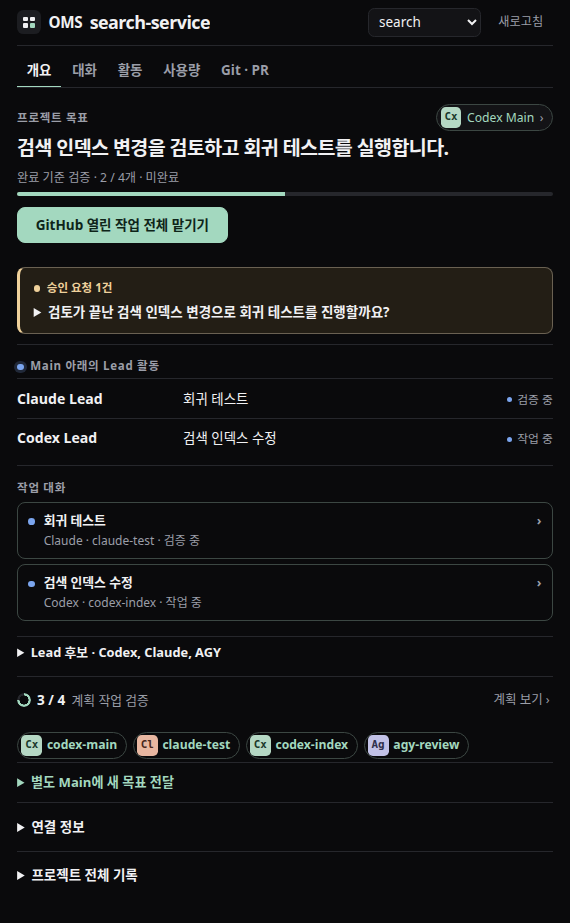
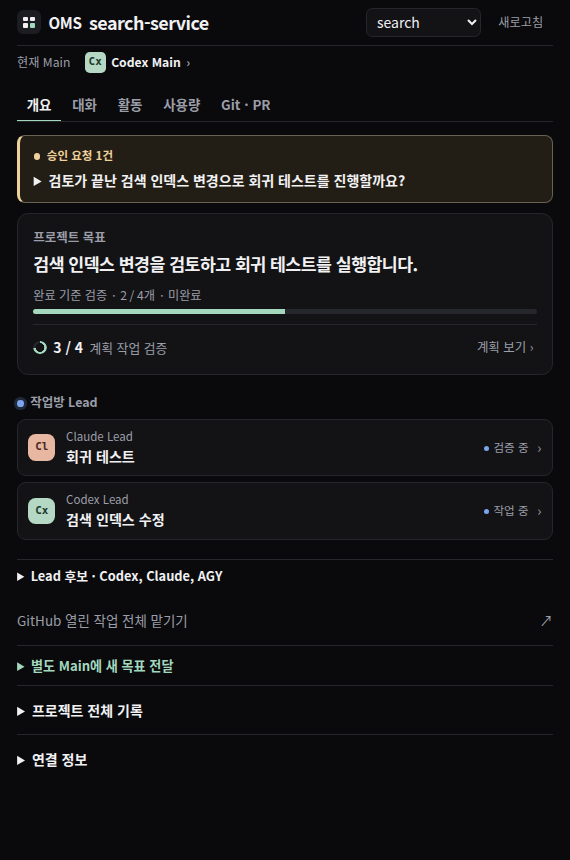
feat: prioritize approvals and active work in the OMS panel

diff --git a/crates/oms-mcp-server/src/conversation-panel.html b/crates/oms-mcp-server/src/conversation-panel.html
@@ -20,7 +20,7 @@
   }
 }
 * { box-sizing: border-box; }
-body { margin: 0; color: var(--ink); background: var(--bg); font: 13.5px/1.5 Inter, system-ui, "Noto Sans CJK KR", "Malgun Gothic", sans-serif; overflow-wrap: anywhere; -webkit-font-smoothing: antialiased; }
+body { margin: 0; color: var(--ink); background: var(--bg); font: 14px/1.5 -apple-system, BlinkMacSystemFont, "Segoe UI", "Malgun Gothic", "Noto Sans CJK KR", system-ui, sans-serif; overflow-wrap: anywhere; -webkit-font-smoothing: antialiased; }
 main { max-width: 42rem; margin: auto; padding: 0 clamp(.75rem, 3vw, 1.1rem) 1.5rem; }
 h1, h2, h3, h4, p, ul, dl, dd, fieldset, legend { margin: 0; padding: 0; }
 h1 { font-size: .95rem; letter-spacing: -.02em; font-weight: 750; }
@@ -58,7 +58,6 @@ fieldset legend { margin-bottom: .45rem; color: var(--muted); font-size: .8rem; 
 #brief:focus { border-color: var(--brand); outline: none; box-shadow: 0 0 0 3px color-mix(in srgb, var(--brand) 22%, transparent); }
 .primary { background: var(--brand); color: var(--on-brand); border-color: var(--brand); font-weight: 650; min-height: 2.3rem; padding-inline: 1.1rem; }
 #start { width: 100%; }
-.lead p + p { margin-top: .25rem; }
 .evidence, .history { margin-top: .7rem; }
 .history summary { cursor: pointer; font-weight: 600; }
 .metrics { display: grid; grid-template-columns: repeat(3, minmax(0,1fr)); gap: .5rem; margin: .65rem 0; }
@@ -75,8 +74,6 @@ ul { list-style: none; }
 .tabs button[aria-selected="false"]:hover { background: var(--tint); border-color: transparent; }
 .meta-row { display: grid; grid-template-columns: minmax(0,1fr) auto; gap: .6rem; align-items: start; }
 .link-action { background: transparent; color: var(--brand); border-color: var(--main-line); font-size: .8rem; font-weight: 650; }
-.lead .link-action { margin-top: .35rem; }
-.lead h4 button { padding: 0; min-height: 1.6rem; border: none; background: transparent; text-align: left; }
 #current-main label { cursor: pointer; }
 .usage-window { display: grid; grid-template-columns: minmax(0,1fr) minmax(3rem,7rem); gap: .4rem; align-items: center; }
 meter { width: 100%; accent-color: var(--brand); }
@@ -170,11 +167,6 @@ header { position: sticky; top: 0; z-index: 2; background: var(--bg); border-bot
 .leads-region h2 { font-size: .72rem; letter-spacing: .06em; color: var(--muted); font-weight: 650; }
 .leads { display: grid; grid-template-columns: 1fr; gap: 0; margin-top: .2rem; }
 .leads > p { padding-top: .4rem; }
-.lead { margin-top: .4rem; padding: .45rem 0 0; }
-.lead h4 { display: flex; align-items: center; gap: .4rem; margin: 0 0 .17rem; font-size: .88rem; }
-.lead h4 small { margin-left: auto; font: .72rem/1.4 var(--mono); }
-.lead h4 .link-action { min-height: 1.5rem; margin: 0; color: var(--ink); font-size: .88rem; }
-.lead p { color: var(--muted); font-size: .78rem; }
 .plan-strip { display: flex; flex-wrap: wrap; gap: .4rem; align-items: center; padding-block: .5rem; }
 .plan-strip strong { font-variant-numeric: tabular-nums; }
 #plan-marker { width: .85rem; height: .85rem; border-radius: 100%; background: conic-gradient(var(--brand) var(--verified),var(--line) 0); mask-image: radial-gradient(circle,transparent 44%,black 48%); }
@@ -189,13 +181,6 @@ header { position: sticky; top: 0; z-index: 2; background: var(--bg); border-bot
 .work-threads button strong, .work-threads button small { display: block; }
 .work-threads button small { margin-top: .1rem; color: var(--muted); font-size: .75rem; font-weight: 500; }
 .work-threads button > span:last-child { color: var(--muted); }
-.team-main { display: flex; gap: .65rem; align-items: center; }
-.team-main .avatar { width: 2.4rem; height: 2.4rem; font-size: .88rem; border-radius: .55rem; }
-.main-card { background: var(--surface); border: 1px solid var(--line); border-left: 3px solid var(--brand); border-radius: var(--r); padding: .8rem .9rem; margin-top: 0; }
-.team-chips { display: flex; flex-wrap: wrap; margin: .5rem 0 .2rem; gap: .35rem; }
-.team-chips button { display: inline-flex; gap: .3rem; align-items: center; font-size: .76rem; font-weight: 550; min-height: 1.7rem; border-radius: 999px; padding: .12rem .55rem .12rem .2rem; max-width: 100%; }
-#header-main { color: var(--brand); font-size: .68rem; min-height: 1.35rem; padding: 0 .45rem; border-radius: 999px; border-color: var(--main-line); }
-#header-main::before { content: ''; display: inline-block; width: .3rem; height: .3rem; background: currentColor; border-radius: 50%; margin: 0 .28rem .1rem 0; }
 #pane-chat, #pane-activity, #pane-usage, #pane-git { border-top: 0; }
 @media (max-width: 28rem) {
   main { padding-inline: .65rem; }
@@ -205,7 +190,6 @@ header { position: sticky; top: 0; z-index: 2; background: var(--bg); border-bot
   #goal { font-size: 1.1rem; }
   #scope { float: none; margin-left: 0; }
   .project-meta { width: 100%; }
-  .team-main .avatar { width: 2rem; height: 2rem; }
   .meta-row .link-action { max-width: 6.5rem; }
   .main-card { padding: .65rem .7rem; }
 }
@@ -220,19 +204,31 @@ header { position: sticky; top: 0; z-index: 2; background: var(--bg); border-bot
 #git-catalog details { border-bottom: 1px solid var(--line); padding-bottom: .4rem; }
 #git-catalog button,#git-content .draft-action { margin-top: .35rem; }
 #goal-card { border-top: 0; }
-.goal-actions { margin-top: .65rem; }
 header { display: flex; flex-wrap: nowrap; gap: .45rem; }
 header .wordmark { display: flex; align-items: center; gap: .46rem; min-width: 0; margin-right: auto; }
 #project { overflow: hidden; text-overflow: ellipsis; white-space: nowrap; }
 #scope { margin: 0; flex: 0 1 auto; }#project-choice { max-width: min(9rem,24vw); }#refresh { flex-shrink: 0; }
 .sr-only { position: absolute; width: 1px; height: 1px; padding: 0; overflow: hidden; clip-path: inset(50%); }
-.goal-head { display: flex; align-items: center; justify-content: space-between; gap: .5rem; }
-#header-main { display: inline-flex; align-items: center; gap: .35rem; min-height: 1.7rem; padding: .12rem .52rem .12rem .2rem; font-size: .76rem; }
-#header-main::before { display: none; }#header-main::after { content: '›'; color: var(--muted); }
-#current-main { margin: 0; font-size: .8rem; }
-.lead { display: grid; grid-template-columns: minmax(5.6rem,.8fr) minmax(0,1.6fr) minmax(2.65rem,auto); gap: .5rem; align-items: baseline; padding: .46rem 0; margin: 0; }
-.lead h4,.lead p { margin: 0; }.lead p { color: var(--ink); font-size: .84rem; }
-.lead-state { font-size: .74rem; text-align: right; color: var(--muted); }.lead-state::before { content: ''; display: inline-block; vertical-align: .08rem; width: .33rem; height: .33rem; border-radius: 50%; margin-right: .3rem; background: var(--muted); }.lead-state.observed::before { background: var(--info); }
+.main-line { display:flex; gap:.6rem; align-items:center; min-height:2.1rem; color:var(--muted); font-size:.76rem; }
+#header-main { display:inline-flex; align-items:center; gap:.35rem; min-height:1.8rem; border:0; padding:0 .3rem; background:transparent; color:var(--ink); font-weight:650; }
+#header-main::after { content:'›'; color:var(--muted); }
+#current-main { margin:0; font-size:.8rem; }
+#goal-card { margin:.65rem 0 .85rem; padding:.85rem .95rem .7rem; background:var(--surface); border:1px solid var(--line); border-radius:.7rem; }
+#goal-card h2,.leads-region h2,.work-threads h2 { font-size:.78rem; letter-spacing:0; }
+h2,h3,.work-title strong,#goal { word-break:keep-all; overflow-wrap:anywhere; text-wrap:pretty; }
+#goal { text-wrap:balance; font-size:1.08rem; line-height:1.5; margin:.25rem 0 .6rem; }
+#plan-strip { border-top:1px solid var(--line); margin-top:.63rem; padding:.45rem 0 0; }
+#approval-card.awaiting-action { margin-top:.8rem; }
+.leads-region { padding:.25rem 0 .7rem; border:0; }
+.leads { margin-top:.45rem; gap:.35rem; }
+.lead { width:100%; display:grid; grid-template-columns:1.8rem minmax(0,1fr) auto auto; gap:.55rem; align-items:center; text-align:left; padding:.52rem .65rem; margin:0; background:var(--surface); border:1px solid var(--line); border-radius:.55rem; }
+button.lead:hover,button.lead:focus-visible { background:var(--tint); }
+.lead .avatar { width:1.65rem; height:1.65rem; border-radius:.48rem; }
+.work-title { display:grid; gap:.05rem; }.work-title small,.lead-state { color:var(--muted); font-size:.72rem; }.work-title strong { font-size:.88rem; font-weight:650; }
+.lead-state { text-align:right; }.lead-state::before { content:''; display:inline-block; vertical-align:.08rem; width:.32rem; height:.32rem; border-radius:50%; margin-right:.3rem; background:var(--muted); }.lead-state.observed::before { background:var(--info); }
+.arrow { color:var(--muted); }
+#overview-backlog { display:flex; width:100%; align-items:center; justify-content:space-between; padding:.48rem 0; margin:.2rem 0 .45rem; font-size:.84rem; min-height:2.1rem; color:var(--muted); text-align:left; border:0; background:transparent; }
+#overview-backlog:hover { color:var(--ink); } #overview-backlog span { color:var(--muted); }
 @media (max-width: 28rem) { main { padding-inline: .92rem; } }
 @media (max-width: 23rem) { header h1 { position: absolute; clip-path: inset(50%); }#project { font-size: .94rem; }#refresh { padding-inline: .18rem; } }
 
@@ -256,6 +252,7 @@ header .wordmark { display: flex; align-items: center; gap: .46rem; min-width: 0
   <p id="status" role="status">OMS 연결 중…</p>
   <p id="receipt" role="status"></p>
   <div id="view" hidden>
+    <div class="main-line"><span id="current-scope">현재 Main</span><button id="header-main" type="button" hidden></button><span id="current-main" class="muted"></span></div>
     <nav class="tabs" role="tablist" aria-label="프로젝트 보기">
       <button id="tab-overview" role="tab" aria-selected="true" aria-controls="pane-overview">개요</button>
       <button id="tab-chat" role="tab" aria-selected="false" aria-controls="pane-chat" tabindex="-1">대화</button>
@@ -264,30 +261,28 @@ header .wordmark { display: flex; align-items: center; gap: .46rem; min-width: 0
       <button id="tab-git" role="tab" aria-selected="false" aria-controls="pane-git" tabindex="-1">Git · PR</button>
     </nav>
     <div id="pane-overview" role="tabpanel" aria-labelledby="tab-overview">
-    <section class="card" id="goal-card" aria-labelledby="goal-heading">
-      <div class="goal-head"><h2 id="goal-heading" class="section-label">프로젝트 목표</h2>
-        <button id="header-main" type="button" hidden></button><span id="current-main" class="muted"></span></div><p id="goal"></p>
-      <div class="measure"><p id="criteria"></p><progress id="acceptance-bar" aria-labelledby="criteria" hidden></progress></div>
-      <div class="cluster goal-actions"><button type="button" class="primary" id="overview-backlog">GitHub 열린 작업 전체 맡기기</button></div>
-    </section>
     <section id="approval-card" class="card" aria-labelledby="approvals-heading">
       <h2 id="approvals-heading">승인 요청</h2><p id="approval-progress" role="status" class="muted"></p><div id="approvals"></div>
     </section>
     <details class="card" id="alerts"><summary>확인이 필요한 항목</summary><ul id="attention"></ul>
       <button type="button" id="attention-open">주의 항목 자세히 보기</button></details>
+    <section class="card" id="goal-card" aria-labelledby="goal-heading">
+      <h2 id="goal-heading" class="section-label">프로젝트 목표</h2><p id="goal"></p>
+      <div class="measure"><p id="criteria"></p><progress id="acceptance-bar" aria-labelledby="criteria" hidden></progress></div>
+      <div id="plan-strip" class="plan-strip" aria-label="프로젝트 작업 검증" hidden>
+        <span id="plan-marker" aria-hidden="true"></span><strong id="plan-ratio"></strong><span class="muted">계획 작업 검증</span>
+        <button id="plan-open" type="button">계획 보기 ›</button>
+      </div>
+    </section>
     <section class="card leads-region" id="room-leads" aria-labelledby="leads-heading">
       <h2 id="leads-heading"><span id="work-dot" class="work-dot" aria-hidden="true" hidden></span><span id="lead-scope">Main 아래의 Lead 활동</span></h2><div id="leads" class="leads"></div>
     </section>
-    <section class="work-threads" id="work-threads" hidden><h2>작업 대화</h2><div id="thread-rows"></div></section>
+    <section class="work-threads" id="work-threads" hidden><h2>다른 작업 대화</h2><div id="thread-rows"></div></section>
       <details class="card" id="provider-options"><summary>Lead 후보 · Codex, Claude, AGY</summary>
         <p class="muted" id="provider-status" role="status"></p><ul id="provider-rows"></ul>
         <button id="provider-load" type="button">호스트 상태 조회</button>
       </details>
-    <section id="plan-strip" class="card plan-strip" aria-label="프로젝트 작업 검증" hidden>
-      <span id="plan-marker" aria-hidden="true"></span><strong id="plan-ratio"></strong><span class="muted">계획 작업 검증</span>
-      <button id="plan-open" type="button">계획 보기 ›</button>
-    </section>
-    <div id="team-region" hidden><div id="team-chips" class="team-chips" aria-label="참여자 대화"></div></div>
+    <button type="button" id="overview-backlog">GitHub 열린 작업 전체 맡기기 <span aria-hidden="true">↗</span></button>
     <details id="launcher" class="card"><summary>별도 Main에 새 목표 전달</summary>
     <form id="launch">
       <fieldset id="controls"><legend>새 Main 선택</legend>
@@ -1073,8 +1068,8 @@ function clearProject() {
   for (const id of ['git-catalog','git-catalog-status','git-match','git-editor-status','git-item','provider-rows','provider-status']) el(id).replaceChildren();
   el('git-number').value = ''; el('git-goal').value = ''; el('git-provider').value = '';
   el('approval-card').className = 'card'; el('approval-card').hidden = false;
-  for (const id of ['thread-rows','team-chips','approval-idle']) el(id).replaceChildren();
-  for (const id of ['work-threads','team-region','plan-strip','acceptance-bar','header-main']) el(id).hidden = true;
+  for (const id of ['thread-rows','approval-idle']) el(id).replaceChildren();
+  for (const id of ['work-threads','plan-strip','acceptance-bar','header-main']) el(id).hidden = true;
   showTab('overview'); tabScroll.clear();
   updateContext(null);
   retryStart = undefined;
@@ -1348,21 +1343,16 @@ function paintAvatar(element, person) {
   element.setAttribute('aria-hidden','true');
 }
 function renderTeam(d) {
-  const chips = el('team-chips'), threads = el('thread-rows');
-  chips.replaceChildren(); threads.replaceChildren();
-  el('team-region').hidden = !members.length;
+  const threads = el('thread-rows');
+  threads.replaceChildren();
+  const active = d.activeAttempts || [];
+  const shown = active.filter(a => isLead(a) && a.room === d.conversationMain?.room);
   const seen = new Set();
-  const history = [...(d.activeAttempts || []),...(d.attempts || [])];
-  for (const person of members) {
-    const chip = action('',() => selectMember(person,chip));
-    const avatar = node('span',''); paintAvatar(avatar,person);
-    chip.append(avatar,node('span',person.participant));
-    chip.setAttribute('aria-label',memberLabel(person) + ' 대화 열기'); chips.append(chip);
-  }
+  const history = [...active,...(d.attempts || [])];
   for (const record of history) {
     if (!record.task || !record.participant || seen.has(record.participant)) continue;
     const member = members.find(m => m.room === record.room && m.participant === record.participant);
-    if (!member) continue;
+    if (!member || shown.some(a => a.participant === member.participant && a.task === record.task)) continue;
     seen.add(member.participant);
     const row = action('',() => selectMember(member,row));
     const dot = node('span','',(d.activeAttempts || []).includes(record) ? 'thread-dot thread-open' : 'thread-dot');
@@ -1401,6 +1391,7 @@ el('provider-options').addEventListener('toggle',() => {
 function renderConversation(d) {
   const main = d.conversationMain;
   const joined = !readOnly && (!d.conversationBinding || d.conversationBinding === 'matched') && main?.source === 'room-session' && main.state === 'joined' && main.room && main.participant && names[main.provider];
+  el('current-scope').textContent = readOnly ? '저장소 Main' : '현재 Main';
   const current = el('current-main');
   current.hidden = Boolean(joined);
   current.textContent = joined ? '' : 'Main 미확인';
@@ -1411,7 +1402,7 @@ function renderConversation(d) {
   el('participant').textContent = joined ? main.participant : '미확인';
   el('identity').hidden = !joined;
   el('main-scope').textContent = readOnly ? '저장소에 기록된 Main' : '이 대화의 Main';
-  el('lead-scope').textContent = readOnly ? '저장소의 Lead 활동' : 'Main 아래의 Lead 활동';
+  el('lead-scope').textContent = readOnly ? '저장소의 Lead 활동' : '작업방 Lead';
   if (readOnly) {
     current.textContent = d.main?.provider ? providerName(d.main.provider) + ' Main' : 'Main 미확인';
     el('main-state').textContent = d.main ? [stateLabel(d.main.state),d.main.room].filter(Boolean).join(' · ') : '저장소 실행 기록에서 Main을 확인할 수 없습니다.';
@@ -1446,17 +1437,21 @@ function renderConversation(d) {
     return;
   }
   for (const lead of roomLeads) {
-    const card = node('article','','lead'), heading = node('h4','');
-    const assignee = providerName(lead.provider) + ' Lead';
     const member = members.find(m => m.participant === lead.participant);
-    if (member) {
-      const link = action(assignee,() => selectMember(member,link));
-      link.setAttribute('aria-label',memberLabel(member) + ' 대화 보기'); heading.append(link);
-    } else heading.append(node('span',assignee));
-    const task = node('p',[lead.task || lead.id || '작업 미확인',readOnly && lead.room].filter(Boolean).join(' · '));
+    const card = member ? action('',() => selectMember(member,card)) : node('article','');
+    card.className = 'lead';
+    const assignee = providerName(lead.provider) + ' Lead';
+    const avatar = node('span',''); paintAvatar(avatar,lead);
+    const text = node('span','','work-title');
+    text.append(node('small',assignee),node('strong',[lead.task || lead.id || '작업 미확인',readOnly && lead.room].filter(Boolean).join(' · ')));
     const state = node('small',stateLabel(lead.state) || '상태 미확인','lead-state');
     if (['working','verifying','starting','in_review'].includes(lead.state)) state.className += ' observed';
-    card.append(heading,task,state); cards.append(card);
+    card.append(avatar,text,state);
+    if (member) {
+      card.setAttribute('aria-label',assignee + ' · ' + (lead.task || lead.id || '') + ' · ' + member.participant + ' 대화 열기');
+      const arrow = node('span','›','arrow'); arrow.setAttribute('aria-hidden','true'); card.append(arrow);
+    }
+    cards.append(card);
   }
 }
 
